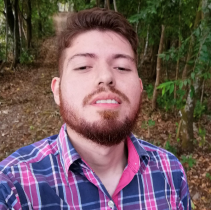
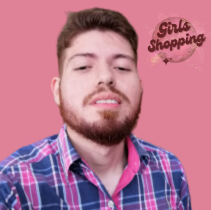
Se corrige estilo y retroalimentaciones

diff --git a/acercaDeEquipo.html b/acercaDeEquipo.html
@@ -21,14 +21,47 @@
   </head>
   <body>
     <!-- Cards de integrantes -->
-    <main class="container">
+    <main>
+
+        <article>
+          <p class="h1 p-5 text-center fw-bold" style="background-color: white;">Nuestro Proyecto...</p>
+          <section class="contenedorProyecto">
+            <div class="container text-center w-100">
+              <div class="row">
+                <div class="col p-5 h3">
+                  Es una plataforma en línea para la compra de productos y servicios de mujeres emprendedoras del Instituto Politécnico Nacional.
+                </div>
+                <div class="col p-5 h3">
+                  Busca fomentar el comercio local y apoyar a las mujeres emprendedoras, brindándoles una oportunidad de darse a conocer y participar en un mercado competitivo.
+                </div>
+              </div>
+              <div class="row">
+                <div class="col p-5 h3">
+                  Ofrecerá ofertas exclusivas para la comunidad estudiantil, permitiéndoles acceder a productos y servicios de alta calidad a precios más accesibles.
+                  
+                </div>
+                <div class="col p-5 h3">
+                  Ofrecerá una navegación cómoda para las usuarias, y productos por categoría; por medio de filtros y secciones.
+                </div>
+                <div class="col p-5 h3">
+                  Permitirá evaluar la calidad del servicio y productos de los vendedores, y ofrecer retroalimentación para mejorar su oferta.
+                </div>
+              </div>
+              <p class="h3 pb-5">Se implementarán medidas de autenticación y verificación de identidad para garantizar la privacidad y seguridad de las usuarias. </p>
+            </div>
+          </section>
+        </article>
+
+      <p class="h1 p-5 text-center fw-bold" style="background-color: rgb(255, 255, 255);">Equipo de desarrollo</p>
+      <p class="h2 pt-5">En proceso de cambiar fotos :c</p>
+      <div class="container p-4">
       <section class="row justify-content-center">
         <div class="col-4">
           <!-- ADRIANA -->
           <img src="./src/img/adriana.png" alt="" />
           <article class="infoContainer">
             <h2 class="nombre">Adriana Ibarra</h2>
-            <h5 class="cargo">Developer</h5>
+            <h5 class="cargo fw-bold">Developer</h5>
             <p class="imgP">
               Java Full Stack Developer apasionada por la programación y nuevo conocimeinto
             </p>
@@ -52,12 +85,11 @@
           <img src="./src/img/ernestoNieves.png" alt="" />
           <article class="infoContainer">
             <h2 class="nombre">Ernesto Muñoz</h2>
-            <h5 class="cargo">Developer</h5>
+            <h5 class="cargo fw-bold">Developer</h5>
             <p class="imgP">
-              Como desarrollador fullstack, tengo habilidades técnicas en el frontend y el
+              Soy un desarrollador Java Full Stack, tengo habilidades técnicas en el frontend y el
               backend, así como en la implementación y configuración de herramientas de
-              automatización. También tengo habilidades en la gestión de proyectos, el trabajo
-              en equipo, la comunicación efectiva y la resolución de conflictos.
+              automatización.
             </p>
             <div class="icono">
               <a href="https://www.linkedin.com/in/ernesto-mu%C3%B1oz-nieves-0a9743267/"
@@ -77,9 +109,9 @@
           <img src="./src/img/alejandro.png" alt="" />
           <article class="infoContainer">
             <h2 class="nombre">Alberto Trejo</h2>
-            <h5 class="cargo">Scrum Master</h5>
+            <h5 class="cargo fw-bold">Scrum Master</h5>
             <p class="imgP">
-              Desarrollador Java Full Stack Jr. Apasionado de la programación. Listo para
+              Desarrollador Java Full Stack. Apasionado de la programación. Listo para
               asumir los retos en mi futuro, en todo lo que haga.
             </p>
             <div class="icono">
@@ -97,7 +129,7 @@
             </div>
           </article>
         </div>
-        <!-- ALEX -->
+<!--         ALEX
         <div class="col-4">
           <img src="./src/img/alex.png" alt="" />
           <article class="infoContainer">
@@ -118,15 +150,15 @@
               ></a>
             </div>
           </article>
-        </div>
+        </div> -->
         <!-- BRYAN -->
         <div class="col-4">
           <img src="./src/img/bryan.png" alt="" />
           <article class="infoContainer">
             <h2 class="nombre">Bryan Jimenez</h2>
-            <h5 class="cargo">Developer</h5>
+            <h5 class="cargo fw-bold">Developer</h5>
             <p class="imgP">
-              Soy un desarrollador Full Stack Junior. Apasionado en el desarrollo de software y
+              Soy un desarrollador Java Full Stack. Apasionado en el desarrollo de software y
               la solución de problemáticas en el área IT”
             </p>
             <div class="icono">
@@ -149,7 +181,7 @@
           <img src="./src/img/daniel1.png" alt="" />
           <article class="infoContainer">
             <h2 class="nombre">Daniel Montoya</h2>
-            <h5 class="cargo">Developer</h5>
+            <h5 class="cargo fw-bold">Developer</h5>
             <p class="imgP">
               Desarrollador Frontend Jr. con experiencia en Javascript, CSS, HTML.
             </p>
@@ -173,12 +205,9 @@
           <img src="./src/img/danielSanches.png" alt="" />
           <article class="infoContainer">
             <h2 class="nombre">Daniel Sánchez</h2>
-            <h5 class="cargo">Product Owner</h5>
+            <h5 class="cargo fw-bold">Product Owner</h5>
             <p class="imgP">
-              Junior Infrastructure Engineer | Java Fullstack Developer | Web Developer |
-              Frontend | Backend <br />
-              Soy apasionado de las Ti, aprendiendo constantemente nuevas formas de aplicarlas
-              Soy apasionado de las TI, aprendiendo constantemente nuevas formas de aplicarlas
+              Soy apasionado de la tecnologia, aprendiendo constantemente nuevas formas de aplicarlas
             </p>
             <div class="icono">
               <a href="https://www.linkedin.com/in/daniel-sanchez-diaz-03775026a/"
@@ -200,10 +229,9 @@
           <img src="./src/img/juan.png" alt="" />
           <article class="infoContainer">
             <h3 class="nombre">Juan Pablo Aviña</h3>
-            <h5 class="cargo">Developer</h5>
+            <h5 class="cargo image.png">Developer</h5>
             <p class="imgP">
-              I am a Junior Full Stack Developer passionate about creating innovative and
-              efficient solutions in the digital world.
+              Soy un Desarrollador Java Full Stack apasionado por crear soluciones innovadoras y eficientes en el mundo digital.
             </p>
             <div class="icono">
               <a href="https://www.linkedin.com/in/chito32/"
@@ -221,36 +249,8 @@
           </article>
         </div>
       </section>
-      <article class="contenedorProyecto container-sm mt-4">
-        <p class="parrafoProyecto">
-          El proyecto es una plataforma en línea para la compra de productos y servicios de
-          mujeres del Instituto Politécnico Nacional. La plataforma será una tienda virtual
-          donde los estudiantes de la institución pueden comprar productos y servicios de
-          emprendedoras de su misma comunidad. La idea principal es fomentar el comercio local
-          y apoyar a las mujeres emprendedoras que, a menudo, tienen dificultades para darse a
-          conocer y competir en un mercado cada vez más competitivo.
-        </p>
-        <p class="parrafoProyecto">
-          La plataforma ofrecerá ofertas exclusivas para la comunidad estudiantil, lo que les
-          permitirá acceder a productos y servicios de alta calidad a precios más accesibles.
-          Al mismo tiempo, esto ayudará a mejorar la visibilidad de los emprendimientos de las
-          mujeres, atrayendo más clientes y, potencialmente, mejorando su rentabilidad. La
-          privacidad y seguridad de los usuarios es una prioridad en la plataforma. Se
-          implementarán medidas de autenticación y verificación de identidad para garantizar
-          que los usuarios sean quienes dicen ser. Además, se establecerán políticas claras
-          sobre el manejo de información personal y financiera para garantizar la confianza de
-          los usuarios en la plataforma.
-        </p>
-        <p class="parrafoProyecto">
-          La plataforma también contará con un sistema de calificación y comentarios para los
-          vendedores, lo que permitirá a los compradores evaluar la calidad del servicio y de
-          los productos, y también ofrecer retroalimentación para mejorar la oferta de los
-          vendedores. En resumen, este proyecto busca apoyar y visibilizar el trabajo de
-          mujeres emprendedoras del Instituto Politécnico Nacional, fomentar el comercio local
-          y brindar ofertas exclusivas para la comunidad estudiantil, todo ello en un entorno
-          seguro y confiable para los usuarios de la plataforma.
-        </p>
-      </article>
+      
+      </div>
     </main>
 
     <script

diff --git a/contacto.html b/contacto.html
@@ -32,7 +32,7 @@
       <h1 class="d-flex align-items-center justify-content-center">
         ¡Tu opinión nos interesa mucho!
       </h1>
-      <p class="d-flex align-items-center justify-content-center">
+      <p class="d-flex align-items-center justify-content-center h4 p-3">
         Tu opinión es muy importante para nosotros, envíanos tus opiniones y comentarios acerca
         de nuestro servicio para poder mejorar cada día.
       </p>
@@ -135,16 +135,15 @@
           Síguenos en nuestras redes sociales
         </h1>
         <div class="d-flex align-items-center justify-content-center">
-          <a href="https://www.instagram.com/"
-            ><img src="./src/icons/icons8-instagram-96 (1).png" alt=""
-          /></a>
-          <a href="https://www.facebook.com/"
-            ><img src="./src/icons/icons8-facebook-nuevo-80.png" alt=""
-          /></a>
+          <a href="https://www.instagram.com/">
+            <i class="bi bi-facebook text-light p-5" style="font-size: 8em;"></i>
+          </a>
+          <a href="https://www.facebook.com/">
+            <i class="bi bi-instagram text-light" style="font-size: 8em;"></i>
+          </a>
         </div>
-        <p class="text-center">
-          Los Datos Personales que le son solicitados, serán tratados con las finalidades
-          primarias de atender y darle seguimiento a sus dudas, quejas, comentarios o
+        <p class="text-center h4">
+          Permítenos atender y darle seguimiento a sus dudas, comentarios, quejas y/o
           sugerencias.
         </p>
       </div>

diff --git a/js/footer.js b/js/footer.js
@@ -7,13 +7,13 @@ const footer = `
     <span class="card-header col-6">Derechos Reservados© IPN GIRL SHOPPING®</span>
     <div class="liksFooter col-6">
       <a href="https://www.facebook.com/" target="_blank" class=""
-        ><i class="bi bi-facebook text-primary fs-2"></i
+        ><i class="bi bi-facebook text-light fs-2"></i
       ></a>
       <a href="https://www.instagram.com/" target="_blank" class=""
-        ><i class="bi bi-instagram text-danger fs-2"></i
+        ><i class="bi bi-instagram text-light fs-2"></i
       ></a>
       <a href="https://wa.me/3121253865/" target="_blank" class=""
-        ><i class="bi bi-whatsapp text-success fs-2"></i
+        ><i class="bi bi-whatsapp text-light fs-2"></i
       ></a>
     </div>
   </section>

diff --git a/login.html b/login.html
@@ -56,8 +56,8 @@
             class="btn btn-primary btn-lg btn-block align-items-center justify-content-center col-md-2" type="submit">
             Enviar
           </button>
-          <a href="#" class="d-flex align-items-center justify-content-center">¿Olvidaste tu contraseña?</a>
-          <a href="./registro.html" class="d-flex align-items-center justify-content-center">¿Aún no tienes cuenta?,
+          <a style="color: white;" href="#" class="d-flex align-items-center justify-content-center">¿Olvidaste tu contraseña?</a>
+          <a style="color: white;" href="./registro.html" class="d-flex align-items-center justify-content-center">¿Aún no tienes cuenta?,
             ¡Regístrate!</a>
           <br />
           <br>

diff --git a/css/style.css b/css/style.css
@@ -170,11 +170,7 @@ main {
   -webkit-background-clip: text;
   -webkit-text-fill-color: transparent;
 }
-.contenedorProyecto {
-  background-color: var(--third-alpha-color);
-  border-radius: 10px;
-  box-shadow: 0px 2px 4px rgb(0, 0, 0);
-}
+
 .parrafoProyecto {
   text-align: justify;
   padding: 1rem;

diff --git a/css/login.css b/css/login.css
@@ -47,4 +47,4 @@ h1{
 p{
     color: white;
 }
-}
+} 
